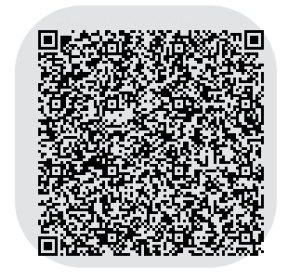
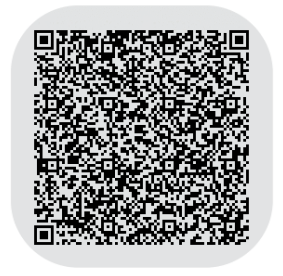
Amend Colombia ACC test data and Readme

diff --git a/CO/1.3.0/README.md b/CO/1.3.0/README.md
@@ -8,18 +8,22 @@ Upload date: 23/02/2022
 
 ### Vaccination
 
-#### Colombia - Second dose - Moderna 2/2
-
-<img src="VAC_CO.png" width="300">
-
 #### Colombia - Booster - AstraZeneca 3/3
 
-<img src="VAC_CO_BOOSTER.png" width="300">
+<img src="VAC_CO_ASTRA_BOOSTER.png" width="300">
 
-#### Colombia - Janssen 1/1
+#### Colombia - Booster - Moderna 3/3
 
-<img src="VAC_CO_JANSSEN.png" width="300">
+<img src="VAC_CO_MODERNA_BOOSTER.png" width="300">
 
-#### Colombia - Booster - Janssen 2/2
+#### Colombia - Booster - PFIZER 3/3
+
+<img src="VAC_CO_PFIZER_BOOSTER.png" width="300">
+
+#### Colombia - Booster - SINOVAC 3/3
+
+<img src="VAC_CO_SINOVAC_BOOSTER.png" width="300">
+
+#### Colombia - Booster - JANSSEN 2/2
 
 <img src="VAC_CO_JANSSEN_BOOSTER.png" width="300">
